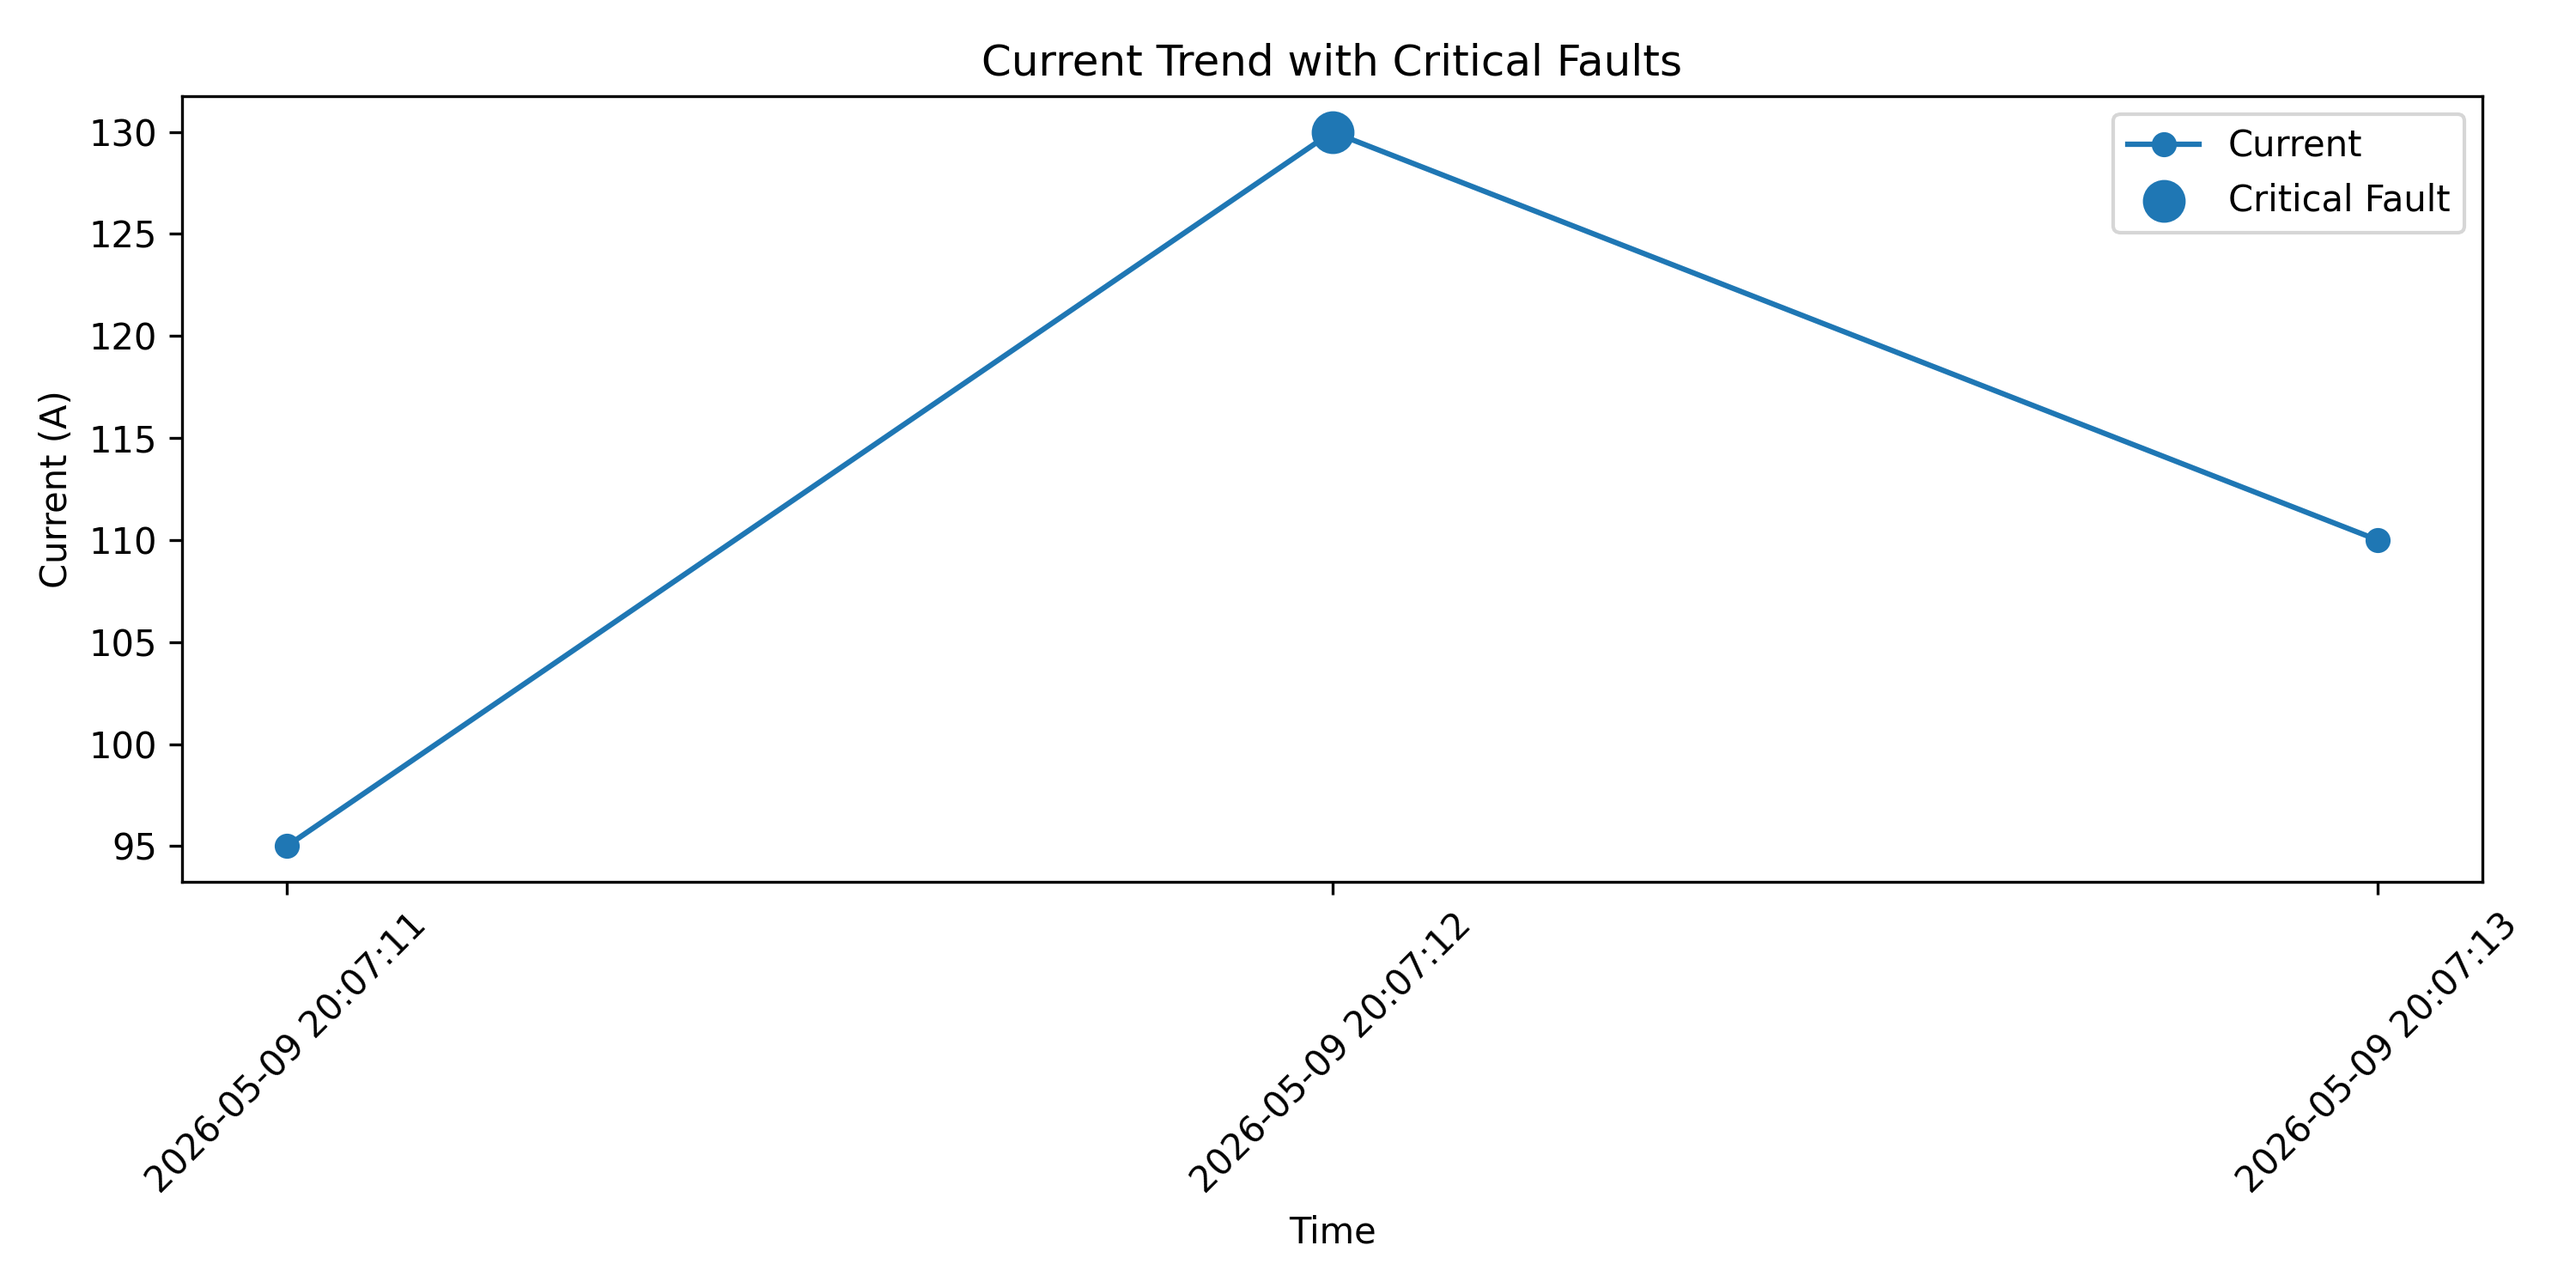
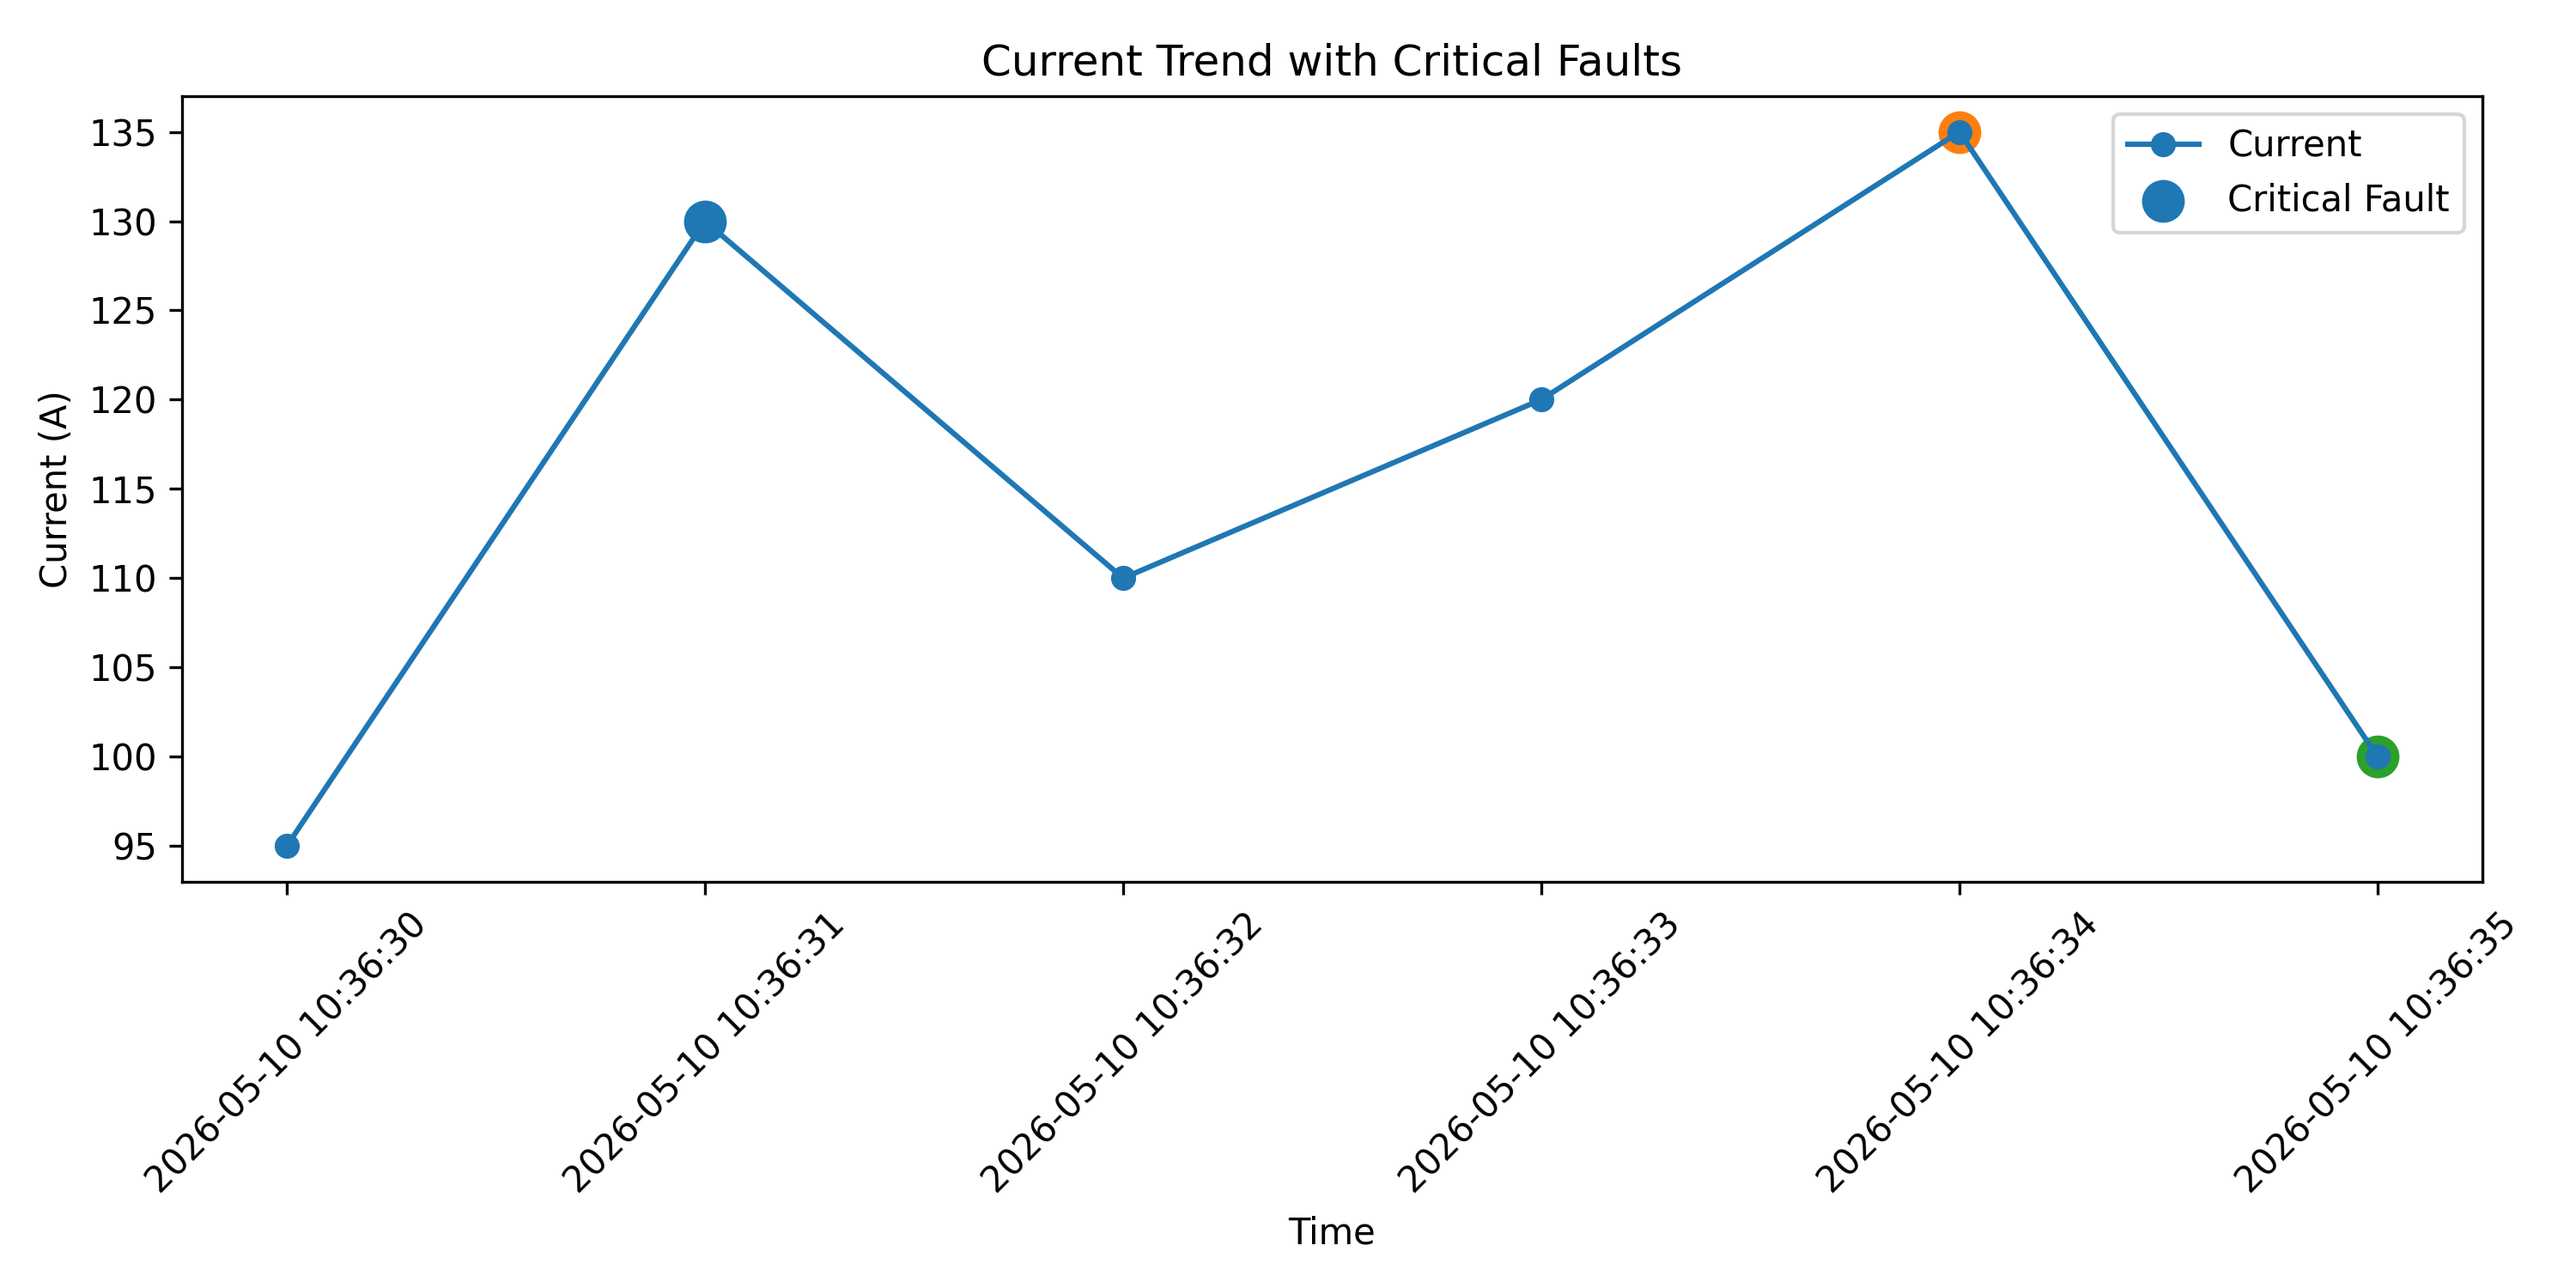
Add files via upload
Upgrade turbine monitoring system with shutdown logic and fault visualization

diff --git a/project2.py b/project2.py
@@ -9,7 +9,10 @@ records = []
 turbine_data = [
     {"current": 95, "temperature": 45, "vibration": 2},
     {"current": 130, "temperature": 70, "vibration": 6},
-    {"current": 110, "temperature": 55, "vibration": 3}
+    {"current": 110, "temperature": 55, "vibration": 3},
+    {"current": 120, "temperature": 75, "vibration": 4},
+    {"current": 135, "temperature": 80, "vibration": 7},
+    {"current": 100, "temperature": 74, "vibration": 8}
 ]
 
 fault_counts = {
